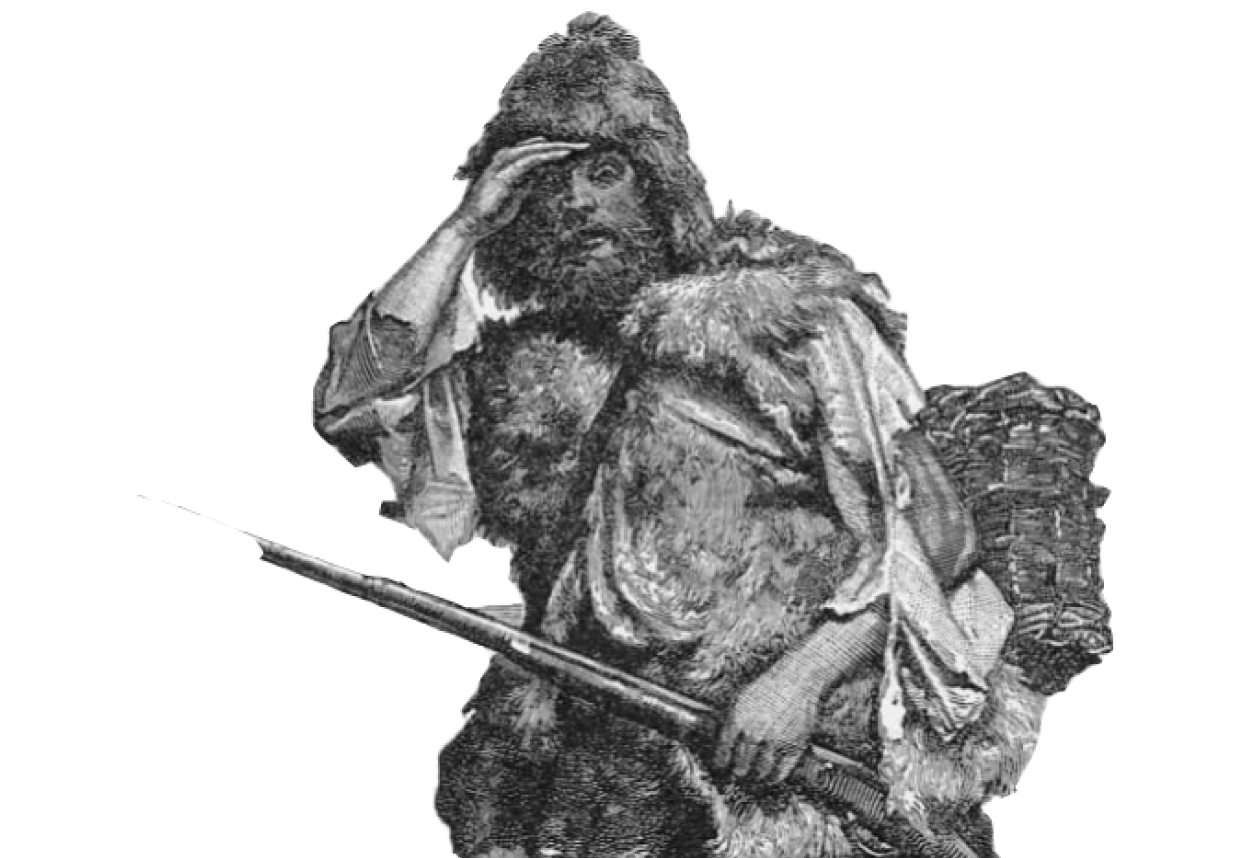
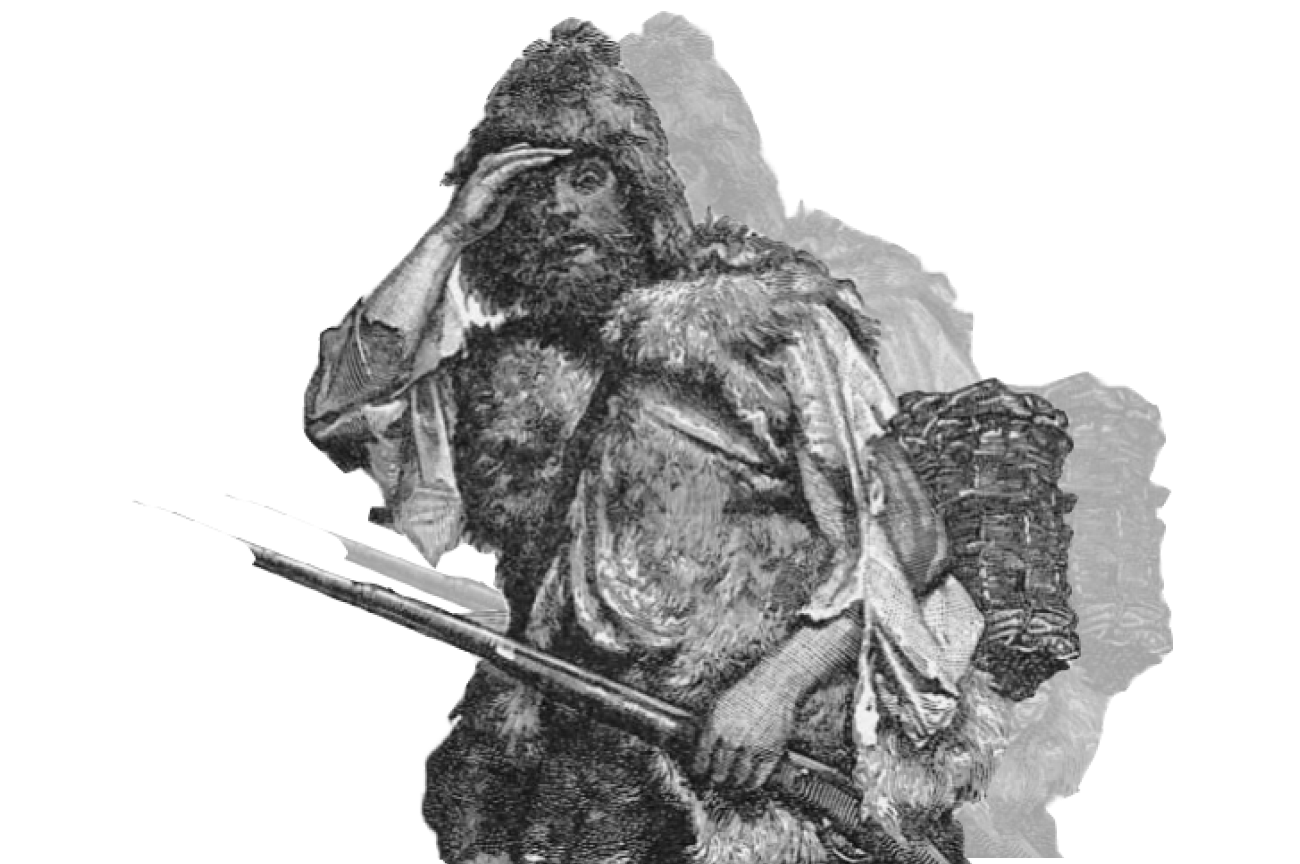
Add files via upload

diff --git a/index.html b/index.html
@@ -17,7 +17,7 @@
         <div class="container">
             <div class="yak">
                 <img src="./img/arrow.svg" alt="" class="yak-line">
-                <a href="#footer" class="yak-link">АВТОРЫ ПРОЕКТА</a>
+                <a href="#feda" class="yak-link">АВТОРЫ ПРОЕКТА</a>
                 <img src="./img/line.svg" alt="" class="yak-line">
             </div>
             <div class="header__wrapper">
@@ -66,7 +66,9 @@
                 </div>
                 <div class="feda__right">
                     <div class="feda-line"></div>
+                    <div class="feda-text-box">
                     <h2 class="feda__subtitle">
+                        
                         Вы когда-нибудь испытывали запретную любовь? 
                     </h2>
                     <p class="feda__text">
@@ -74,7 +76,9 @@
                     </p>
                     <p class="feda__text">
                         Мачеха испытывает влечение к пасынку. Понимая греховность своих чувств, она хранит их в тайне. Но всякому терпению приходит конец. Муж Тесей на время покидает дом, и Федра решает действовать, но увы не каждая история любви заканчивается благополучно.
-                    </p>
+                    </p>        
+                    </div>
+                    
                     <div class="feda-line feda-line2"></div>
                 </div>
             </div>
@@ -180,12 +184,15 @@
                 </div>
                 <div class="clev-right">
                     <div class="clev-line"></div>
-                    <h4 class="clev__subtitle">
+                    <div class="clev-text-box">
+                        <h4 class="clev__subtitle">
                         Если перед вами стоит выбор - любовь или долг, то что вы выберете?
                     </h4>
                     <p class="clev__text">
                         Героиня следующей книги выбирает честь. Да-да, мужество и характер присущи не только героям произведений. Сила и стойкость характера есть и у героинь. Некая Татьяна Ларина из мира зарубежной литературы - остаться верной избраннику, медленно обрезая свои крылья. 
                     </p>
+                    </div>
+                    
                     <div class="clev-line feda-line2"></div>
                 </div>
             </div>
@@ -227,12 +234,15 @@
             <div class="vetr__wrapper">
                 <div class="vetr-left">
                     <div class="clev-line"></div>
-                    <h3 class="vetr__title">
+                    <div class="vert-text-box">
+                        <h3 class="vetr__title">
                         Слышали, что любовь живет три года? Согласны? Если нет, то скорее читать это произведение.
                     </h3>
                     <p class="vetr-text">
                         Юный Вертер любил всего раз в своей жизни, который, кстати, трагично оборвался из-за этого чувства. 
                     </p>
+                    </div>
+                    
                     <div class="clev-line"></div>
                 </div>
                 <div class="vetr-right">
@@ -280,7 +290,8 @@
                 </div>
                 <div class="cil-right">
                     <div class="clev-line"></div>
-                    <h3 class="cil__title">
+                    <div class="cil-text-box">
+                        <h3 class="cil__title">
                         Мы уже знаем, что именно эта книга лежала на столе Вертера, но что это за произведение и почему оно лежало сейчас разберемся.
                     </h3>
                     <p class="cil-text">
@@ -289,6 +300,8 @@
                     <p class="cil-text">
                         Король и его помощник Вурм придумывают коварные идеи, чтобы Фердинанд засомневался в верности своей возлюбленной. Но вся эта затея приводит к гибели двух сердец.
                     </p>
+                    </div>
+                    
                     <div class="clev-line cil-line"></div>
                 </div>
             </div>

diff --git a/css/style.css b/css/style.css
@@ -238,7 +238,7 @@ margin: 0 100px;
   background-position: center;
   background-size:cover;
   background-repeat: no-repeat;
-  min-height: 90vh;
+  min-height: 100vh;
   min-width: 50vw;
   position: relative;
   display: flex;
@@ -248,7 +248,7 @@ margin: 0 100px;
 .feda-left::before{
   content: '';
   position: absolute;
-  height: 90vh;
+  height: 100vh;
   background-color: #D1A954;
   width: 1px;
   top: 0;
@@ -275,7 +275,7 @@ margin: 0 100px;
 .feda__right{
   color:rgba(51, 51, 51, 0.85);
   background: rgba(209, 169, 84, 0.85);
-  min-height: 90vh;
+  min-height: 100vh;
   max-width: 960px;
   margin-left: -150px;
   z-index: 10;
@@ -318,6 +318,7 @@ margin: 0 100px;
 .test{
   min-height: 100vh;
   color: #131313;
+  margin-top: 50px;
 }
 
 .test__wrapper{
@@ -395,18 +396,10 @@ margin-bottom: 20px;
 
 .rob__left{
   background: linear-gradient(138deg, #94BB58 20.4%, rgba(179, 187, 88, 0.58) 53.8%, rgba(179, 187, 88, 0.58) 75.79%);
-  min-height: 90vh;
+  min-height: 100vh;
   width: 960px;
   position: relative;
   color:rgba(51, 51, 51, 0.6);
-}
-
-.rob__left::after{
-  content: url(../img/rob-bg.png);
-  position: absolute;
-  height: 100%;
-  top: 161px;
-  left: 250px;
 }
 
 .rob-text-box{
@@ -415,11 +408,13 @@ margin-bottom: 20px;
 }
 
 .rob-right{
-  background-image: url(../img/rob-bg-bg.png);
+  background-image: url(../img/rob-bg.png);
   background-size:auto;
   background-position:bottom;
   background-repeat:no-repeat;
   display: flex;
+  z-index: 12;
+  margin-left: -150px;
 }
 
 .rob__title{
@@ -474,9 +469,9 @@ background-clip: text;
 .clev{
   min-height: 100vh;
   background-image: url(../img/clev-bg.png);
-  background-size: 50%;
+  background-size: 81%;
   background-repeat: no-repeat;
-  background-position: center;
+  background-position: left;
 }
 
 .clev__wrapper{
@@ -485,11 +480,8 @@ background-clip: text;
 }
 
 .clev-left{
-  background-image: url(../img/celv-bg2.png);
-  background-size:80%;
-  background-position: center ;
-  background-repeat: no-repeat;
-  min-height: 100vh;
+  
+  height: 100vh;
   display: flex;
   z-index: -1;
 }
@@ -516,8 +508,8 @@ margin-right: 0;
 
 .clev-right{
   background: linear-gradient(220deg, rgba(122, 18, 43, 0.96) 0.52%, rgba(178, 153, 100, 0.90) 99.28%);
-  height: 94vh;
-  margin-left: -80px;
+  
+  margin-left: 100px;
 }
 
 .clev__text{
@@ -582,7 +574,7 @@ background-clip: text;
 .vetr-left{
     background: linear-gradient(304deg, rgba(138, 23, 26, 0.71) 17.99%, rgba(163, 105, 72, 0.73) 55.26%, rgba(178, 153, 100, 0.74) 83.6%);
     width: 600px;
-    min-height: 90vh;
+    min-height: 100vh;
 }
 
 .vetr__title{
@@ -613,10 +605,10 @@ margin-bottom: 210px;
 
 .vetr-right{
   background-image: url(../img/vert-bg.png);
-  min-height: 90vh;
+  min-height: 100vh;
   background-size:cover;
   width: 700px;
-  margin-left: -100px;
+  
 }
 
 .text4-box{
@@ -778,4 +770,109 @@ text-align: right;
 .sps{
   margin-top: 20px;
   margin-bottom: 20px;
+}
+
+@media(min-width:1919px){
+  .test{
+    min-height: 80vh;
+  }
+  .feda-text-box{
+    padding-top: 250px;
+    padding-bottom: 100px;
+  }
+  .clev-text-box{
+    padding-top: 150px;
+    padding-bottom: 200px;
+  }
+  .vetr-left{
+    width: 960px;
+  }
+  .vetr__title{
+    color: #FFF;
+text-align: justify;
+font-family: "SC JURERE";
+font-size: 40px;
+font-style: normal;
+font-weight: 400;
+line-height: normal;
+letter-spacing: 4px;
+
+  }
+
+  .vetr-text{
+    color: rgba(255, 255, 255, 0.60);
+font-family: Geometria;
+font-size: 24px;
+font-style: normal;
+font-weight: 800;
+line-height: normal;
+letter-spacing: 2.4px;
+text-align: justify;
+  }
+  .vert-text-box{
+    padding-left: 100px;
+    padding-right: 100px;
+    padding-bottom: 150px;
+    padding-top: 150px;
+  }
+  .vetr-right{
+    margin-left: 0;
+    background-size: cover;
+    background-repeat:no-repeat;
+    width: 1084px;
+    margin-left: -250px;
+  }
+  .cil-text-box{
+    padding-top: 150px;
+    padding-bottom: 150px;
+  }
+  .rob__title{
+    padding-top: 20%;
+    padding-left: 450px;
+    
+  }
+  .rob-left{
+    min-width: 960px;
+    
+  }
+  .rob-right{
+    margin-left: -450px;
+  }
+}
+
+@media (min-width:1440px){
+  .clev__wrapper{
+    justify-content: center;
+  }
+  .clev-right{
+    margin-right: 0;
+    margin-left: 0;
+  }
+  .clev{
+    background-image: none;
+  }
+  .clev-left{
+    background-image:url(../img/clev-bg.png);
+    background-size: cover;
+    background-position:left;
+  }
+  .clev__title{
+    margin: 0;
+    display: block;
+    width: 700px;
+    margin-top: 40%;
+  }
+  .vetr-right{
+    margin-left: -150px;
+    width: 740px;
+  }
+  .vetr-left{
+    width: 760px;
+  }
+  .vetr__wrapper{
+    justify-content: space-between;
+  }
+  .vert-text-box{
+    padding-top: 100px;
+  }
 }
